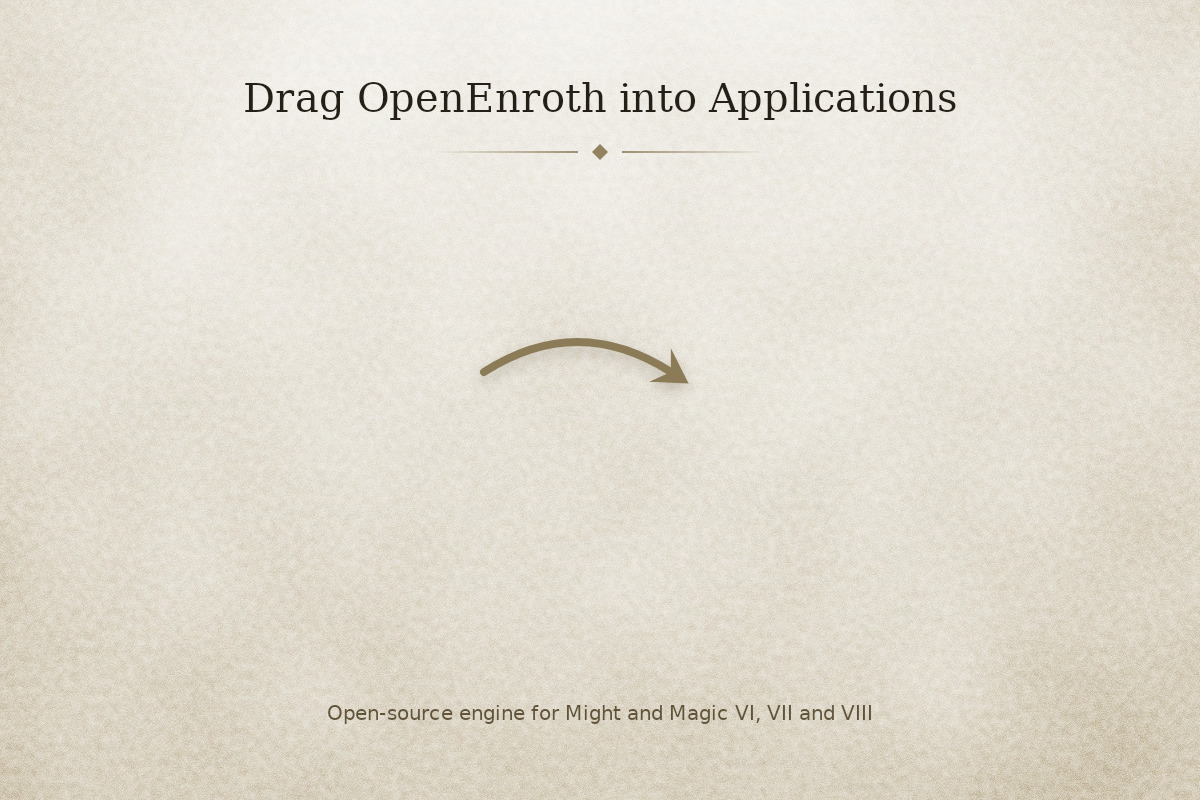
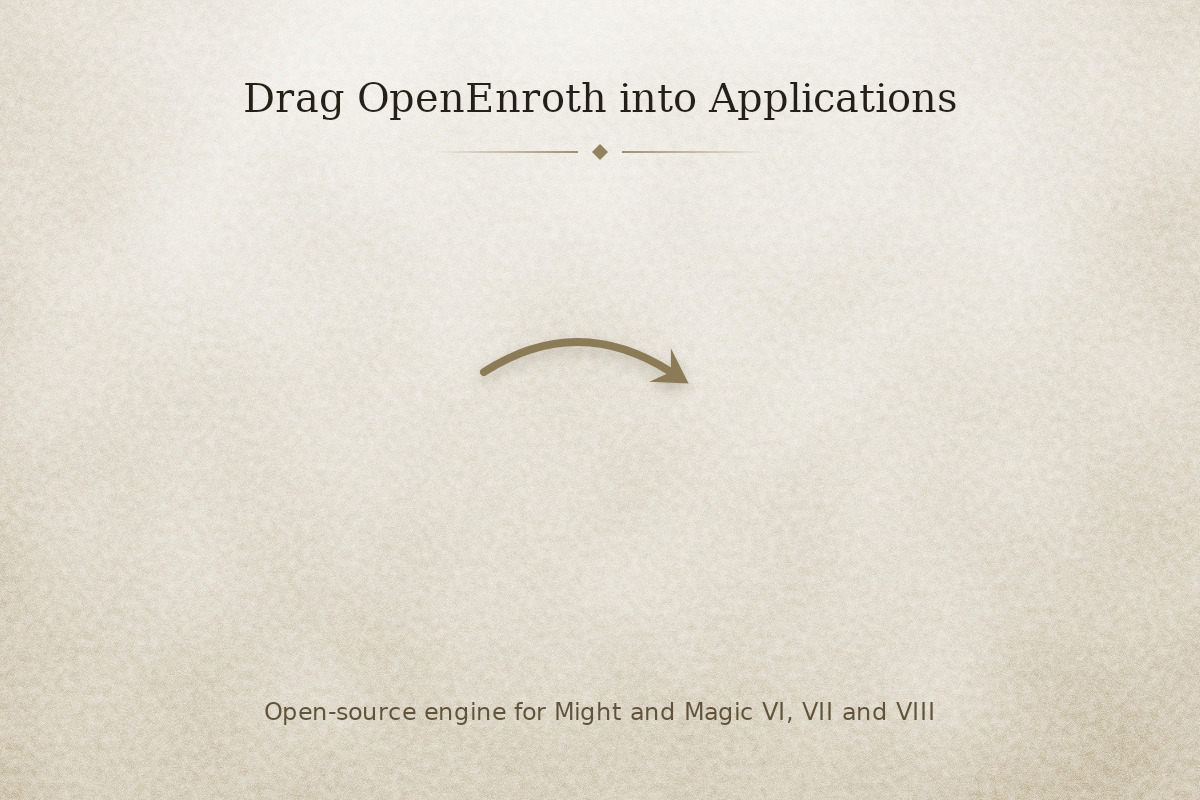
Set the dmg background subtitle in 12pt
At 10pt it was too small to read comfortably in the Finder window. The
backgrounds are regenerated.

Changed region(s): [[0.2158, 0.875, 0.7708, 0.9062]]

diff --git a/distribution/macos/GenerateDmgBackground.py b/distribution/macos/GenerateDmgBackground.py
@@ -141,7 +141,7 @@ def render(scale):
         centered_text(canvas, 56, 'Drag OpenEnroth into Applications', font('DejaVuSerif.ttf', 20), INK)
         ornament(canvas, 76)
         centered_text(canvas, H - 40, 'Open-source engine for Might and Magic VI, VII and VIII',
-                      font('DejaVuSans.ttf', 10), BRONZE_DARK)
+                      font('DejaVuSans.ttf', 12), BRONZE_DARK)
     return Image.fromarray(surface.makeImageSnapshot().toarray(colorType=skia.kRGBA_8888_ColorType)).convert('RGB')
 
 
